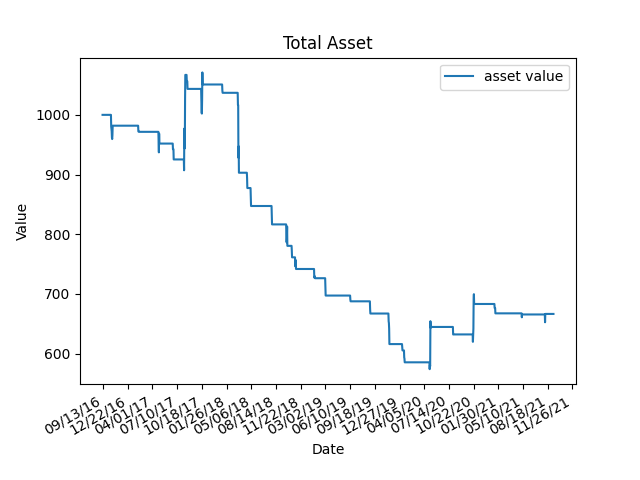
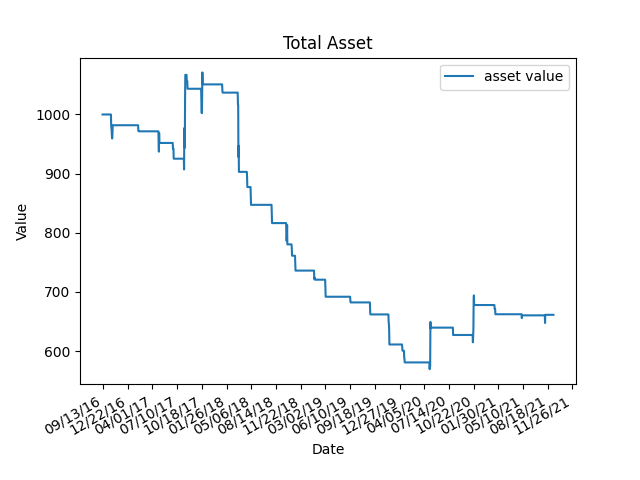
优化双线法逻辑以及重置图片

diff --git a/MA.py b/MA.py
@@ -191,7 +191,7 @@ def B_MA(customer, bitcoin, time_sort,
                     customer.sell_gold(customer.gold_amount, gold_date_index)
                     customer.sell_bitcoin(customer.bitcoin_amount, date)
                 else:
-                    pass
+                    customer.sell_bitcoin(customer.bitcoin_amount, date)
             elif j1 == 0:  
                 if j2 > 0:
                     customer.buy_gold(PARAM.ALLIN, gold_date_index)
